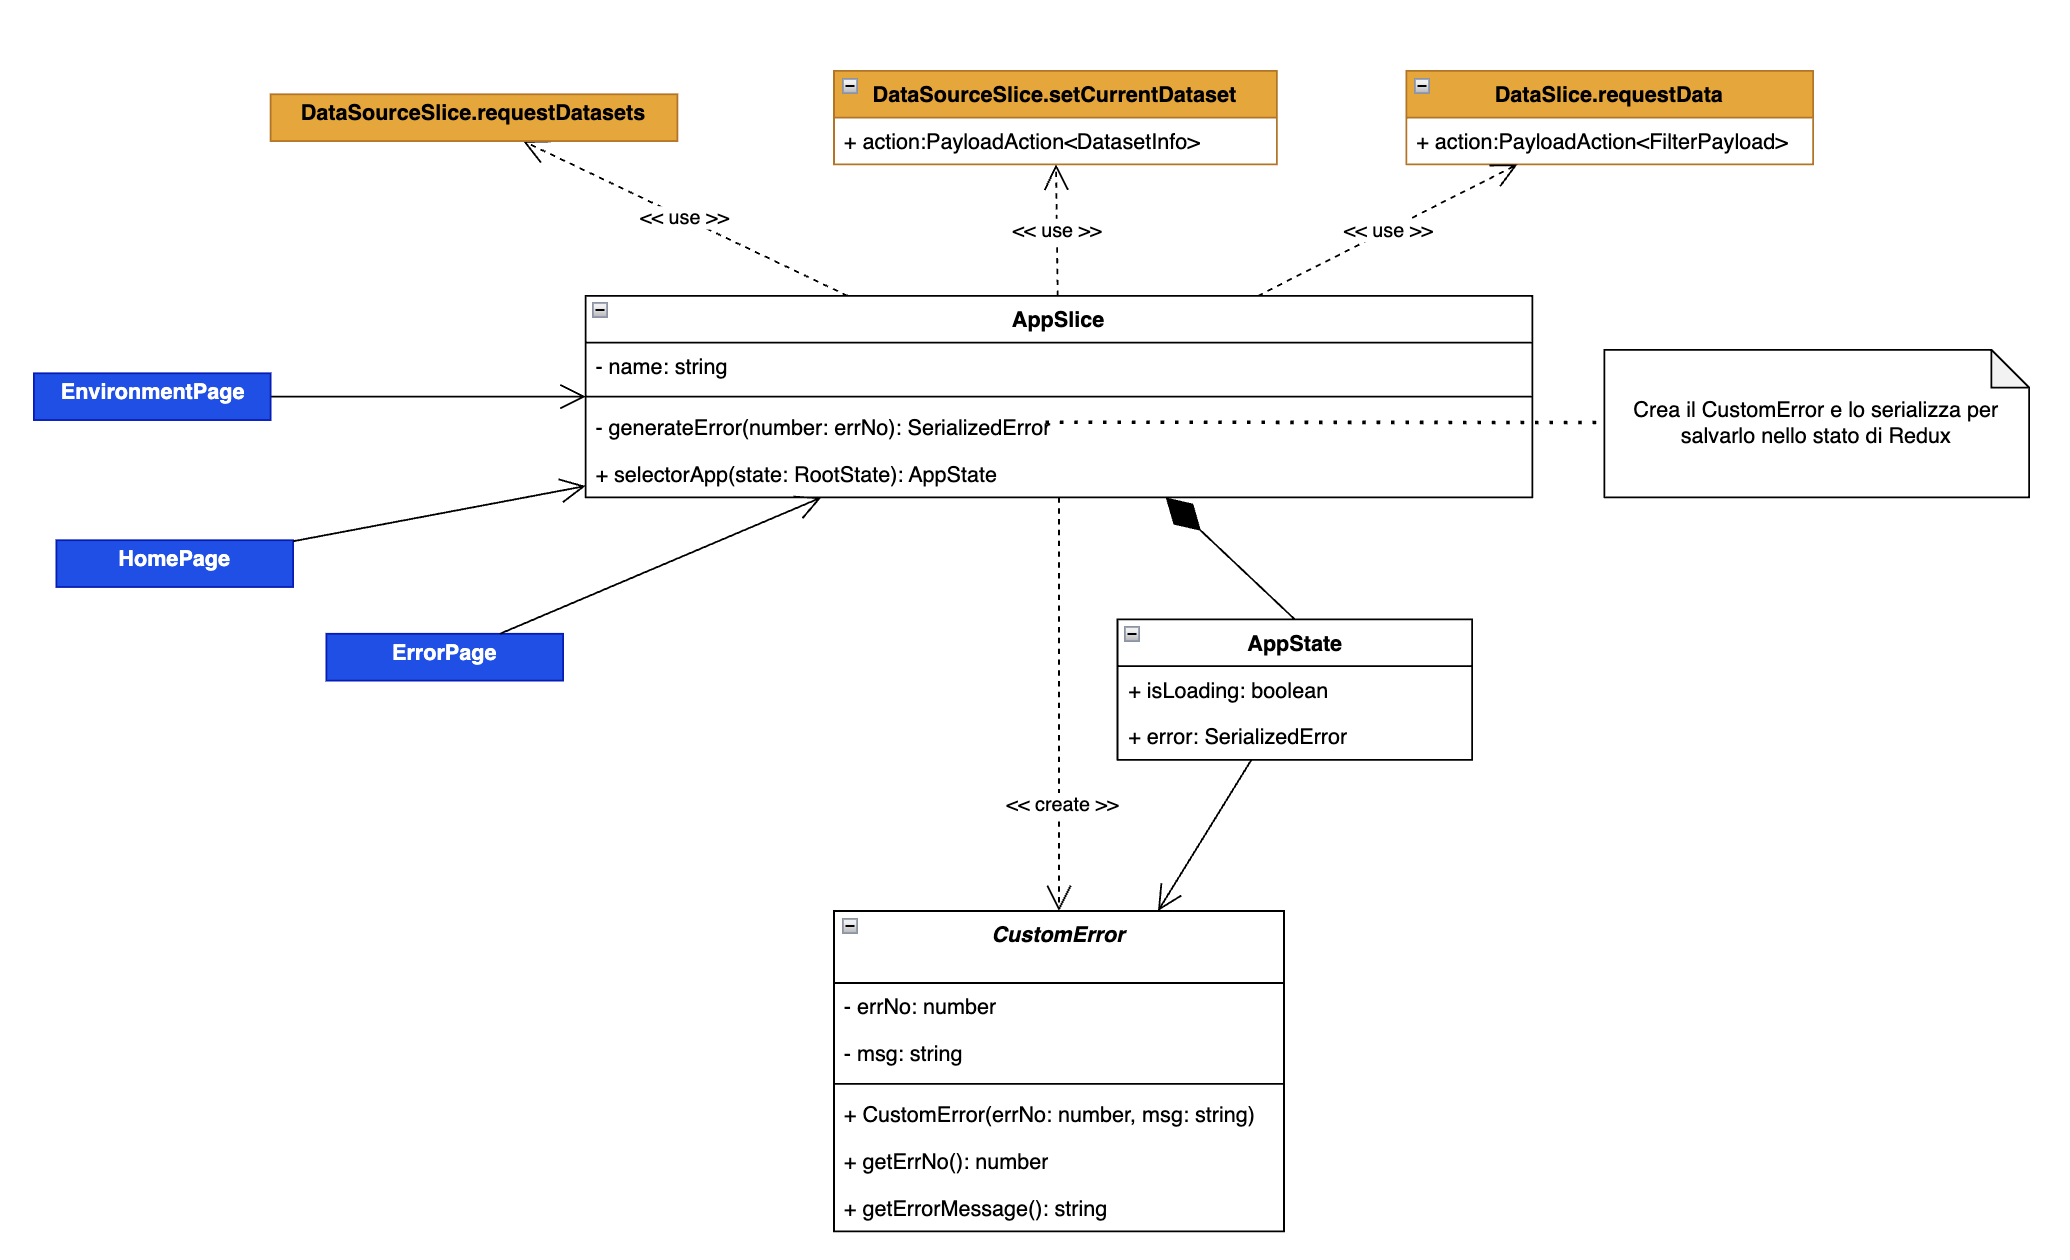
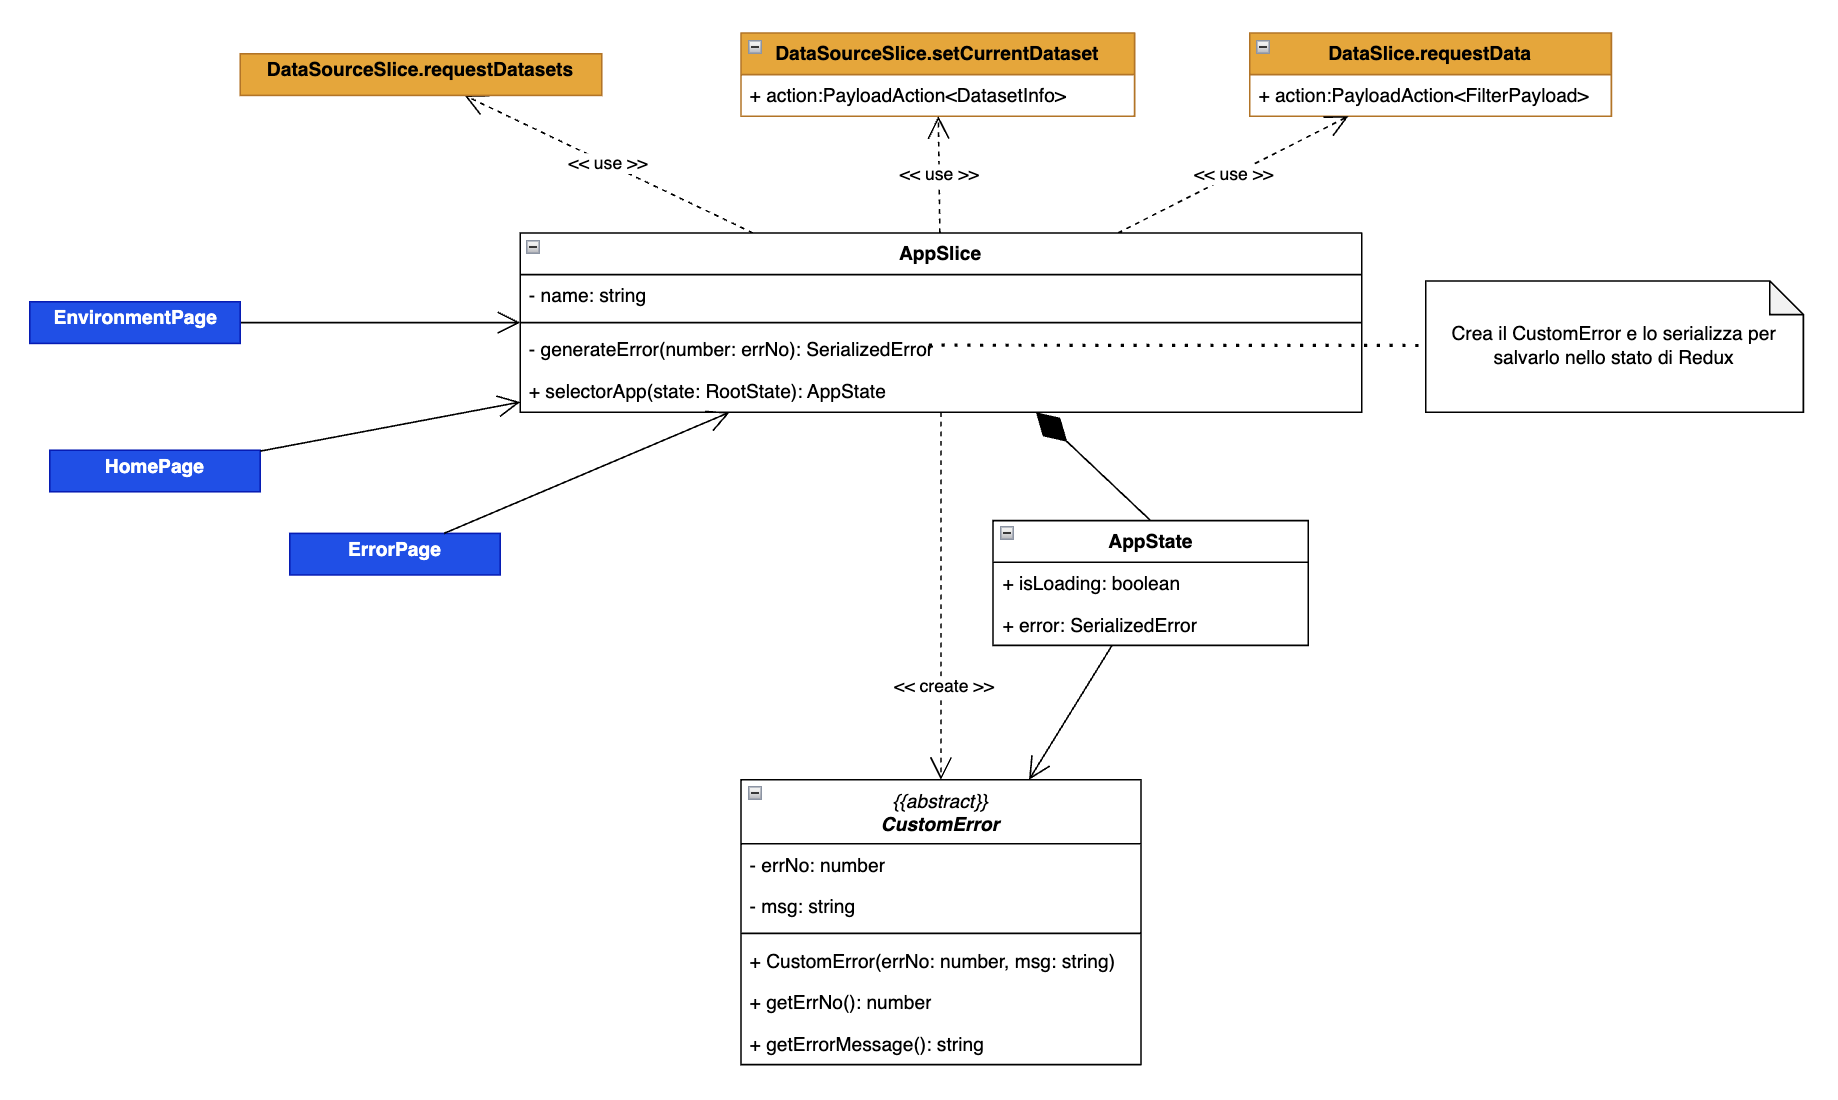
change: fix abstract

diff --git a/Docs/PB/Generali Esterni/specifica_tecnica/03_architettura_front.tex b/Docs/PB/Generali Esterni/specifica_tecnica/03_architettura_front.tex
@@ -538,7 +538,7 @@ Questo diagramma mostra i componenti per la gestione dello stato dell'applicazio
 
 \subparagraph{CustomError}
 \begin{center}
-      \includegraphics[scale=0.3]{template/images/uml_front/logic/CustomError.png}
+      \includegraphics[scale=0.6]{template/images/uml_front/logic/CustomError.png}
       \captionof{figure}{CustomError}
 \end{center}
 \textbf{Descrizione del diagramma:}\\
